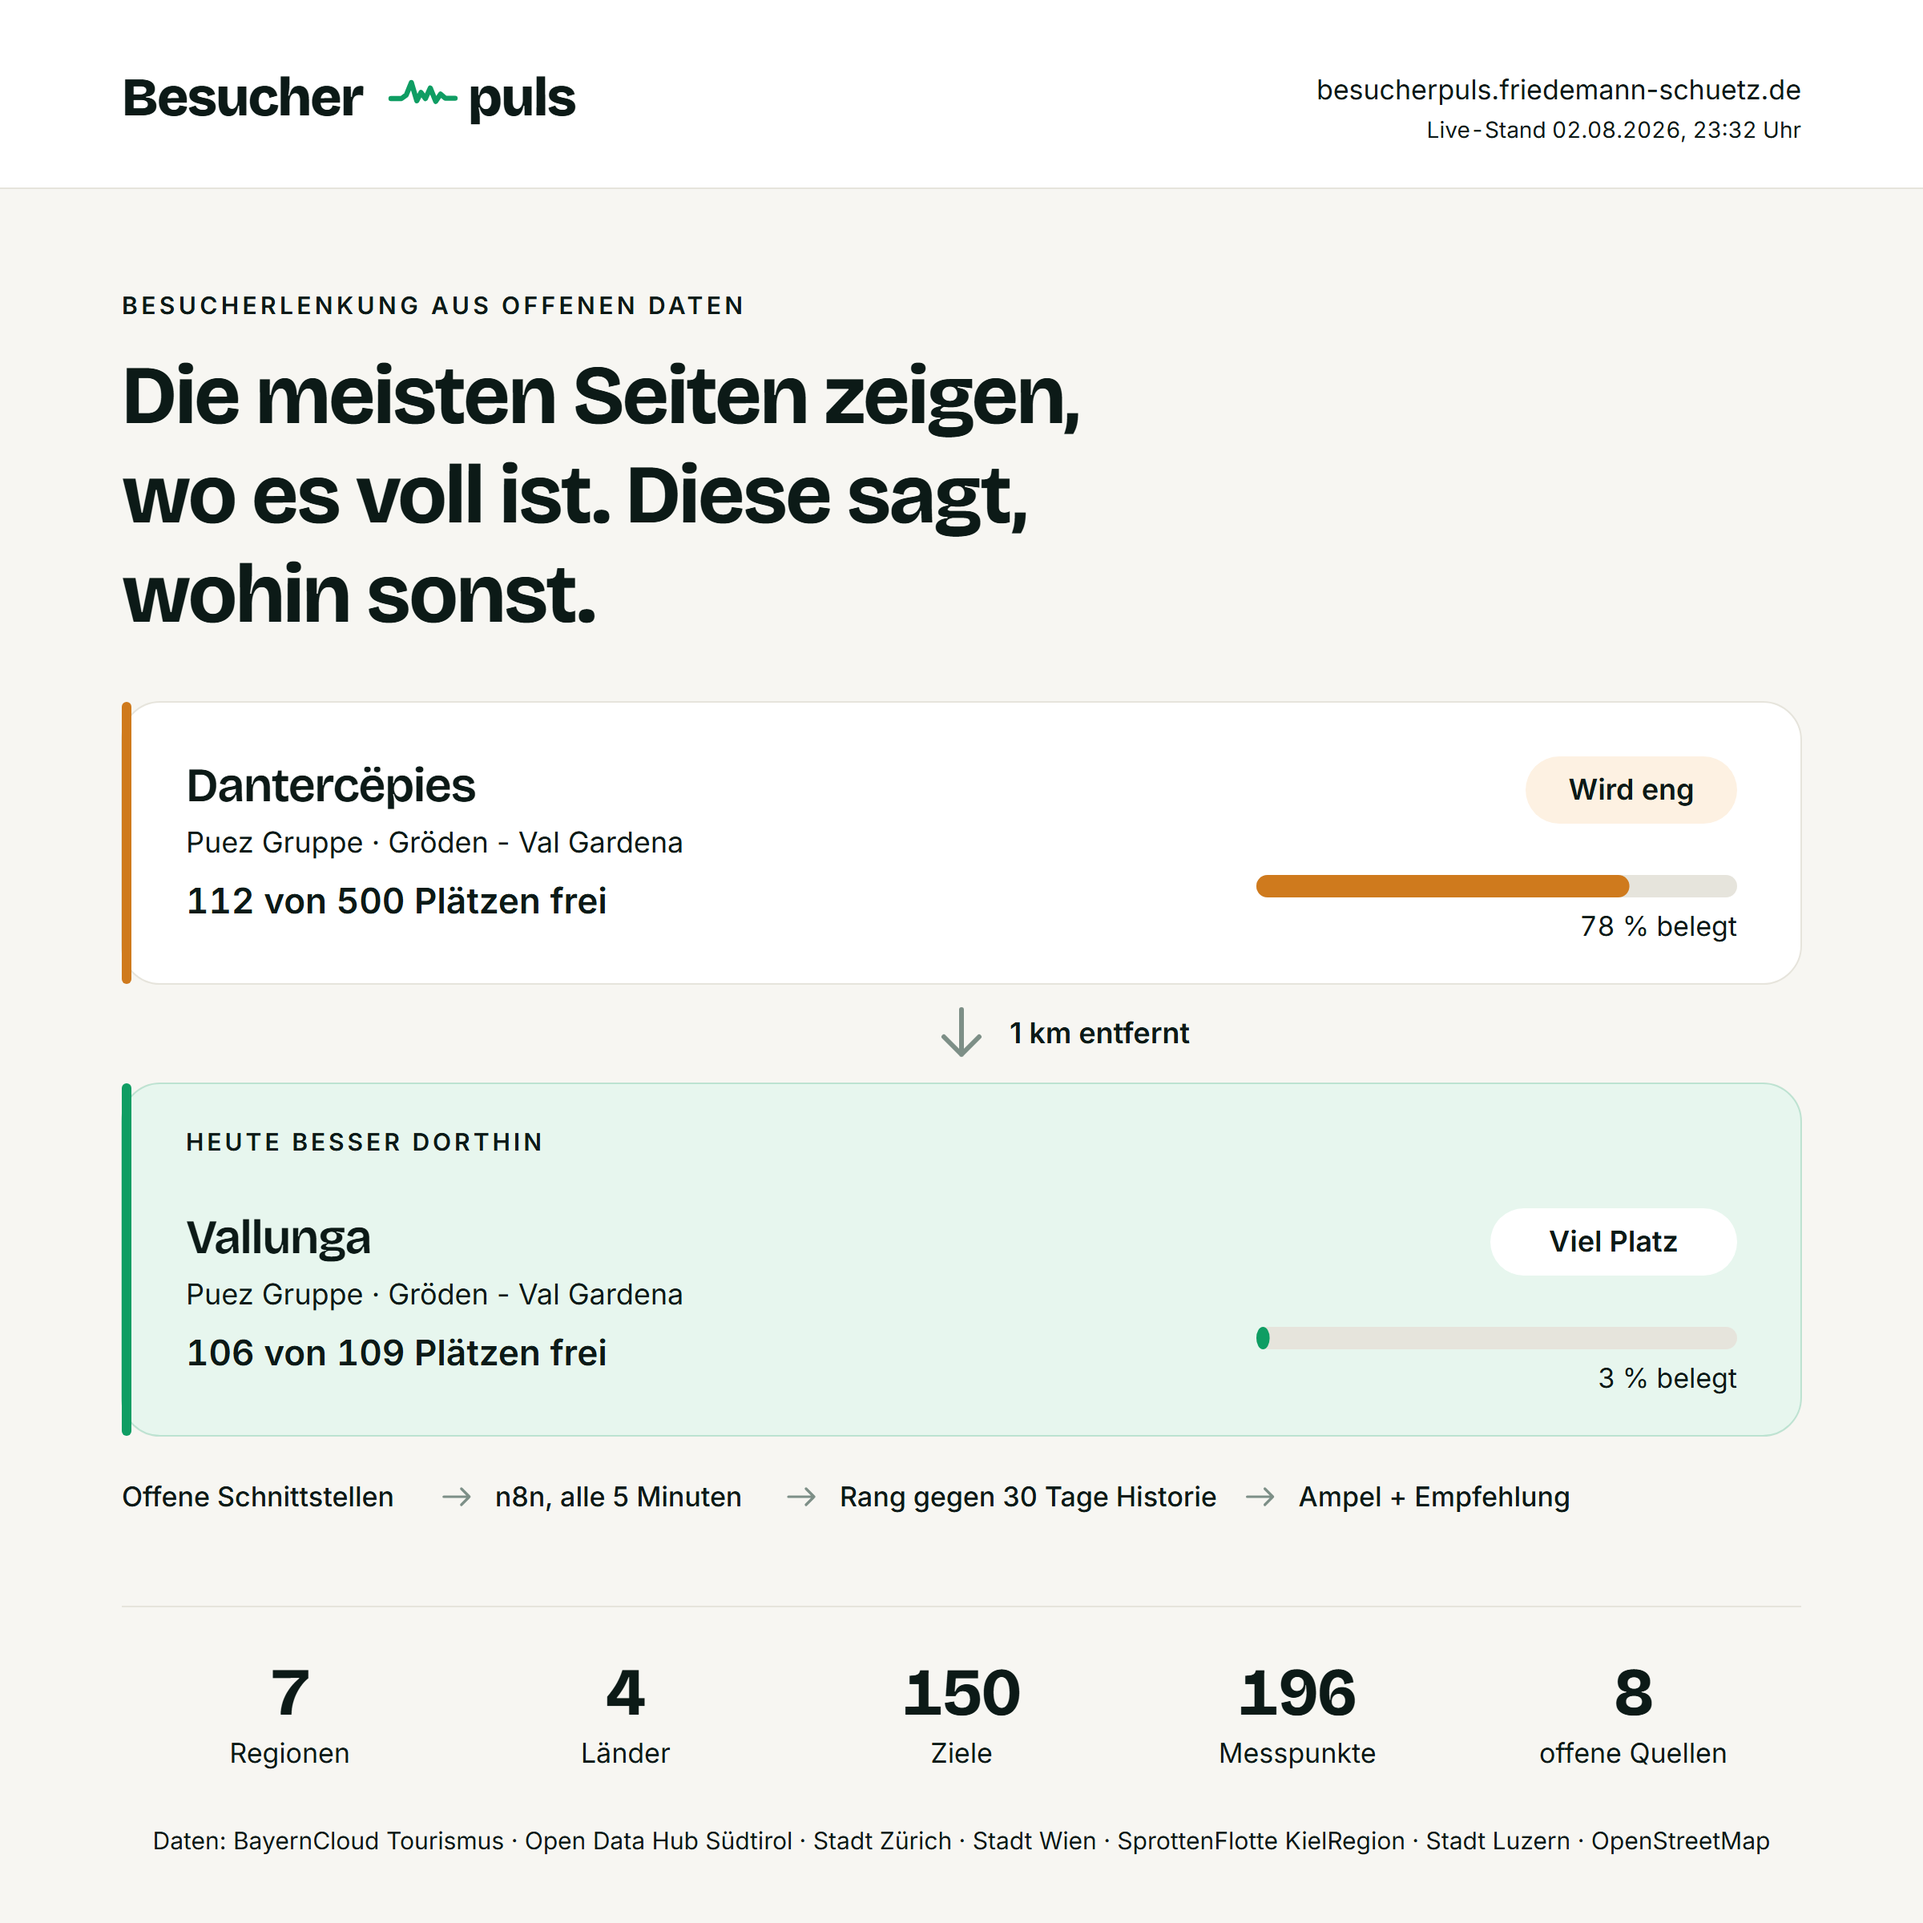
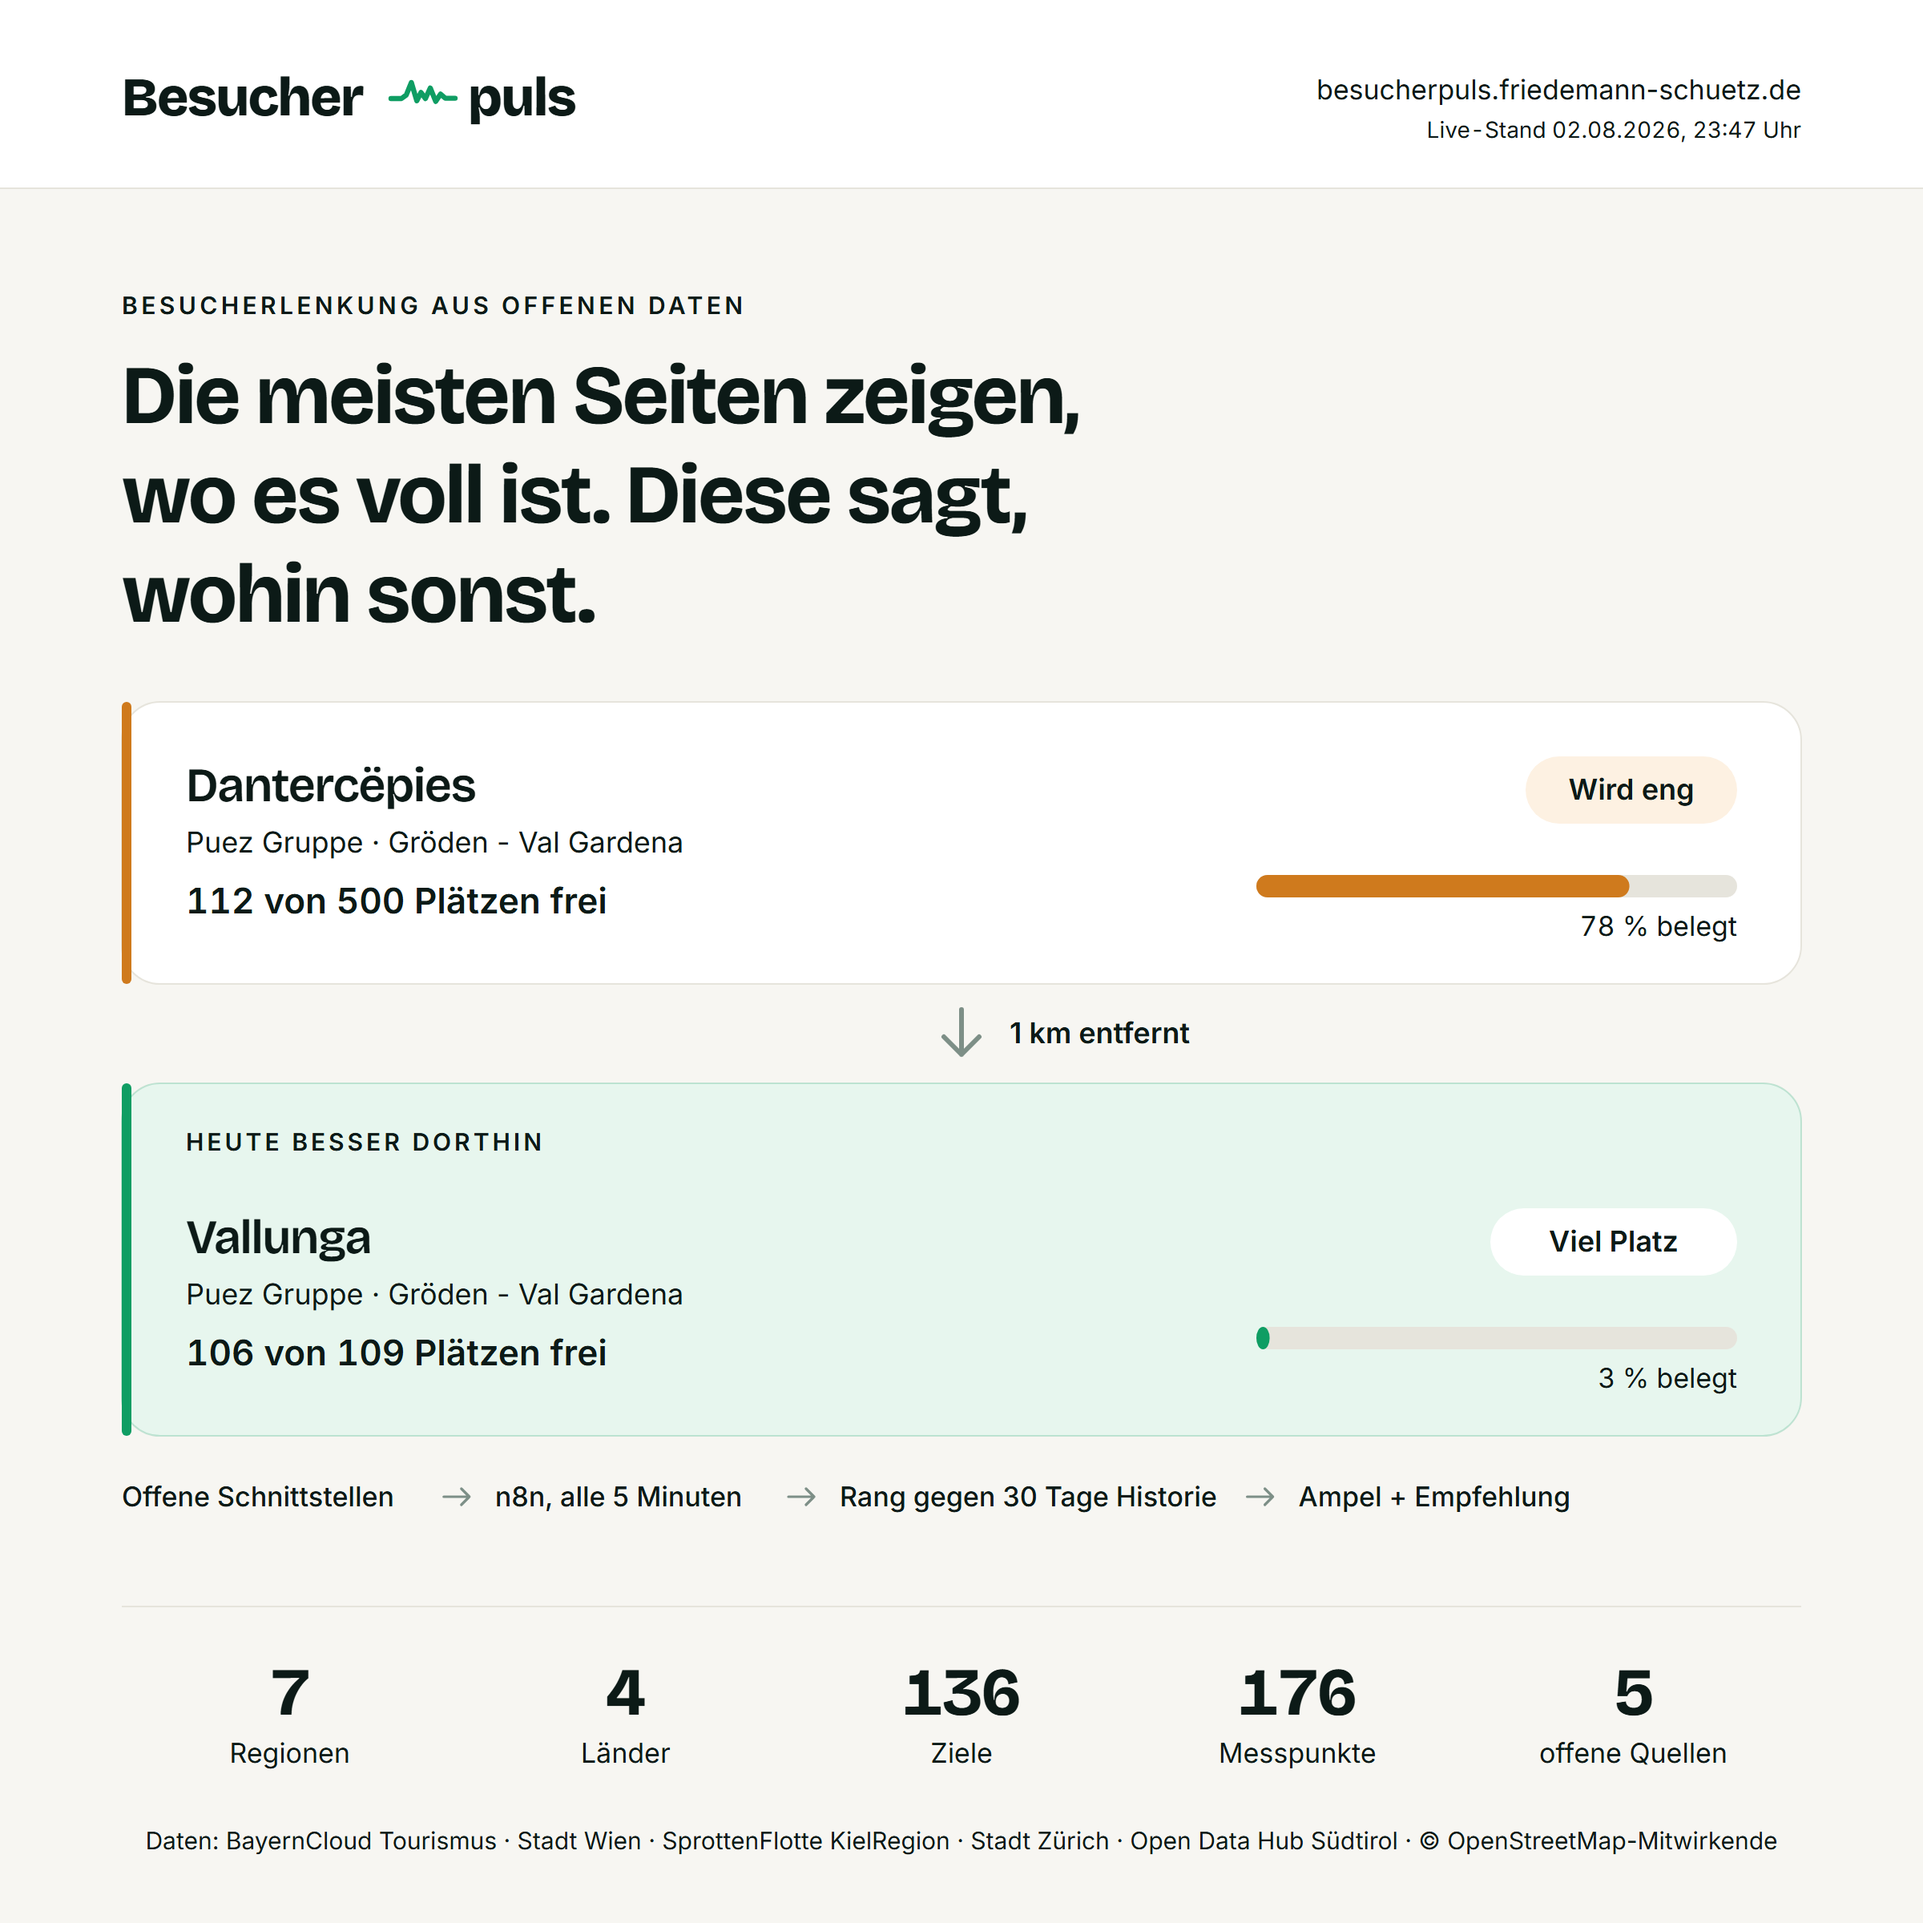
@ Fusszeile: BayernCloud ergaenzt, Grafik zaehlt nur noch Sichtbares
Die Quellenliste im Footer nannte Suedtirol, Zuerich, Wien, Kiel und Luzern —
aber nicht die BayernCloud. Ausgerechnet die groesste Quelle: 57 der 136
gezeigten Ziele kommen von dort, drei der sieben Regionen haengen komplett
daran. Jetzt in erster Position, mit derselben Bezeichnung, die QUELLE_LABEL
und die Regionseintraege fuehren ("BayernCloud Tourismus (CC0)").

Beim Nachzaehlen fiel auf, dass die Grafik zwei verschiedene Mengen
nebeneinandergestellt hat: "7 Regionen" ist die sichtbare Menge, "150 Ziele /
196 Messpunkte / 8 Quellen" war der ganze Datensatz. Luzern, Meran, die
Suedtiroler Leihraeder und nextbike haben keine Region und tauchen auf der
Seite nirgends auf. Die Zahlen stimmten formal und liessen sich trotzdem nicht
nachzaehlen. Jetzt alles auf sichtbarer Basis: 7 Regionen, 4 Laender, 136
Ziele, 176 Messpunkte, 5 Quellen — und die Quellennennung der Grafik wird aus
genau diesen Zielen abgeleitet statt getippt, damit Liste und Zahl nicht
auseinanderlaufen koennen. Auch das Beispielpaar kommt nur noch aus sichtbaren
Regionen; sonst zeigte die Grafik ein Ziel, das man auf der Seite nicht findet.

Luzern bleibt im Footer der Seite: /api/status liefert die drei Ziele mit aus,
auch wenn keine Region sie rendert. Zu viel Namensnennung schadet nicht, zu
wenig schon.

npm run build gruen, Fusszeile im erzeugten HTML geprueft.

@

Changed region(s): [[0.0625, 0.9375, 0.9375, 0.9688], [0.6562, 0.875, 0.6875, 0.9062], [0.5, 0.875, 0.5312, 0.9062]]

diff --git a/app/layout.tsx b/app/layout.tsx
@@ -72,9 +72,15 @@ export default function RootLayout({ children }: { children: React.ReactNode }) 
               </div>
               <div className="max-w-xs text-sm leading-relaxed text-tinte-weich">
                 <p className="font-medium text-tinte">Daten</p>
+                {/* Die BayernCloud fehlte hier, ausgerechnet die groesste Quelle:
+                    57 der 136 gezeigten Ziele kommen von dort. Reihenfolge nach
+                    Gewicht. Die Anreicherung (Touren, POI-Texte) stammt ebenfalls
+                    aus der BayernCloud, steht aber unter CC BY-SA — die Lizenz je
+                    Objekt nennt die Zielkarte selbst. */}
                 <p className="mt-1.5">
-                  Open Data Hub Südtirol · Stadt Zürich (CC0) · Stadt Wien · SprottenFlotte
-                  KielRegion (CC0) · Stadt Luzern · © OpenStreetMap-Mitwirkende, © CARTO
+                  BayernCloud Tourismus (CC0) · Open Data Hub Südtirol · Stadt Wien ·
+                  SprottenFlotte KielRegion (CC0) · Stadt Zürich (CC0) · Stadt Luzern ·
+                  © OpenStreetMap-Mitwirkende, © CARTO
                 </p>
               </div>
               <div className="text-sm leading-relaxed">

diff --git a/scripts/grafik_bauen.py b/scripts/grafik_bauen.py
@@ -73,18 +73,49 @@ r = urllib.request.Request(f"{env('N8N_BASE')}/webhook/besucherpuls-status",
 d = json.loads(urllib.request.urlopen(r, timeout=200).read())
 sensoren = json.load(io.open(SENSORS, encoding="utf-8"))["sensoren"]
 
-anz_ziele = d["zusammenfassung"]["ziele"]
-anz_punkte = d["zusammenfassung"]["sensoren"]
-anz_laender = len({s["land"] for s in sensoren})
-anz_quellen = len({s["quelle"] for s in sensoren})
-# Die Regionen stehen nur im Frontend, nicht in der Antwort des Workflows. Aus
-# der Datei zaehlen statt tippen — sonst behauptet die Grafik irgendwann eine
-# Zahl, die die Seite nicht mehr hergibt. Die vier Leerzeichen Einzug trennen
-# die Regionseintraege von der Typdeklaration und vom Dach-Eintrag „bayern".
-anz_regionen = len(re.findall(r'^    slug: "', io.open(REGIONEN, encoding="utf-8").read(),
-                              re.M))
-if not 3 <= anz_regionen <= 40:
+# Gezaehlt wird, was ein Besucher SIEHT — nicht, was im Datensatz liegt.
+#
+# Der Workflow liefert 150 Ziele aus 10 Gruppen und 8 Quellen; die Seite zeigt
+# davon 7 Regionen. Luzern, Meran, die Suedtiroler Leihraeder und nextbike
+# haben keine Region und tauchen nirgends auf. „150 Ziele" neben „7 Regionen"
+# zu stellen, waere also das Aufsummieren zweier verschiedener Mengen — die
+# Zahl stimmte formal und liesse sich auf der Seite trotzdem nicht nachzaehlen.
+quelltext = io.open(REGIONEN, encoding="utf-8").read()
+sichtbar = set(re.findall(r'gruppe: "([a-z-]+)"', quelltext))
+# Die vier Leerzeichen Einzug trennen die Regionseintraege von der
+# Typdeklaration und vom Dach-Eintrag „bayern".
+anz_regionen = len(re.findall(r'^    slug: "', quelltext, re.M))
+if not 3 <= anz_regionen <= 40 or not sichtbar:
     sys.exit(f"Regionszaehlung unplausibel ({anz_regionen}) — regionen.ts geaendert?")
+
+gezeigt = [z for z in d["ziele"] if z["gebiet"] in sichtbar]
+sensor_von = {s["id"]: s for s in sensoren}
+punkte = [g["id"] for z in gezeigt for g in z["zugaenge"]]
+anz_ziele = len(gezeigt)
+anz_punkte = len(punkte)
+anz_quellen = len({z["quelle"] for z in gezeigt})
+anz_laender = len({sensor_von[m]["land"] for m in punkte if m in sensor_von})
+
+# Die Quellennennung ist Lizenzpflicht, keine Deko — und sie muss zu der Zahl
+# passen, die daneben steht. Darum aus denselben Zielen abgeleitet.
+QUELLE_NAME = {
+    "bayern": "BayernCloud Tourismus", "st_parken": "Open Data Hub Südtirol",
+    "st_rad": "Open Data Hub Südtirol", "wien_baeder": "Stadt Wien",
+    "kiel_gbfs": "SprottenFlotte KielRegion", "zh_baeder": "Stadt Zürich",
+    "luzern": "Stadt Luzern", "gbfs": "nextbike",
+}
+fehlt = {z["quelle"] for z in gezeigt} - QUELLE_NAME.keys()
+if fehlt:
+    sys.exit(f"Unbenannte Quelle(n): {fehlt} — QUELLE_NAME ergaenzen.")
+# Reihenfolge nach Gewicht, damit die groesste Quelle vorn steht.
+nach_gewicht = sorted({z["quelle"] for z in gezeigt},
+                      key=lambda q: -sum(1 for z in gezeigt if z["quelle"] == q))
+namen, gesehen = [], set()
+for q in nach_gewicht:
+    if QUELLE_NAME[q] not in gesehen:
+        gesehen.add(QUELLE_NAME[q])
+        namen.append(QUELLE_NAME[q])
+namen.append("© OpenStreetMap-Mitwirkende")
 
 # Das Beispiel wird nach GENAU DER ZAHL gewaehlt, die danach auf der Grafik
 # steht: dem Anteil freier Plaetze.
@@ -107,9 +138,11 @@ def frei_anteil(x):
 
 paare = []
 von_id = {z["id"]: z for z in d["ziele"]}
-for z in d["ziele"]:
+for z in gezeigt:                  # nur Ziele, die auf der Seite auffindbar sind
     a = z.get("alternative")
     if not a or not z.get("kapazitaet") or not a.get("kapazitaet"):
+        continue
+    if (von_id.get(a["id"]) or {}).get("gebiet") not in sichtbar:
         continue
     if a.get("frei_plaetze") is None or z.get("frei_plaetze") is None:
         continue
@@ -133,6 +166,11 @@ satz = (ziel.get("begruendung") or "").strip()
 if len(satz) < 45 or satz.rstrip(".").endswith((zielobj.get("info") or {}).get("gebiet") or "\0"):
     satz = ""
 
+print(f"Sichtbar: {anz_regionen} Regionen · {anz_laender} Länder · {anz_ziele} Ziele · "
+      f"{anz_punkte} Messpunkte · {anz_quellen} Quellen "
+      f"(Datensatz gesamt: {d['zusammenfassung']['ziele']} Ziele, "
+      f"{d['zusammenfassung']['sensoren']} Messpunkte)")
+print(f"Quellen: {' · '.join(namen)}")
 print(f"Beispiel: {quelle['name']} ({quelle['frei_plaetze']}/{quelle['kapazitaet']}, "
       f"{frei_anteil(quelle):.0f}% frei) -> {ziel['name']} "
       f"({ziel['frei_plaetze']}/{ziel['kapazitaet']}, {frei_anteil(ziel):.0f}% frei, "
@@ -321,8 +359,7 @@ for i, (wert, wofuer) in enumerate(zahlen):
 # Die Quellen sind Lizenzpflicht, keine Deko — CC BY und ODbL verlangen die
 # Nennung auch dann, wenn die Grafik ausserhalb der Seite auftaucht.
 a(f'<text x="{B/2}" y="{H - 46}" text-anchor="middle" font-size="15" fill="{ZART}">'
-  f'Daten: BayernCloud Tourismus · Open Data Hub Südtirol · Stadt Zürich · '
-  f'Stadt Wien · SprottenFlotte KielRegion · Stadt Luzern · OpenStreetMap</text>')
+  f'Daten: {xml(" · ".join(namen))}</text>')
 a("</svg>")
 
 os.makedirs(AUS, exist_ok=True)
